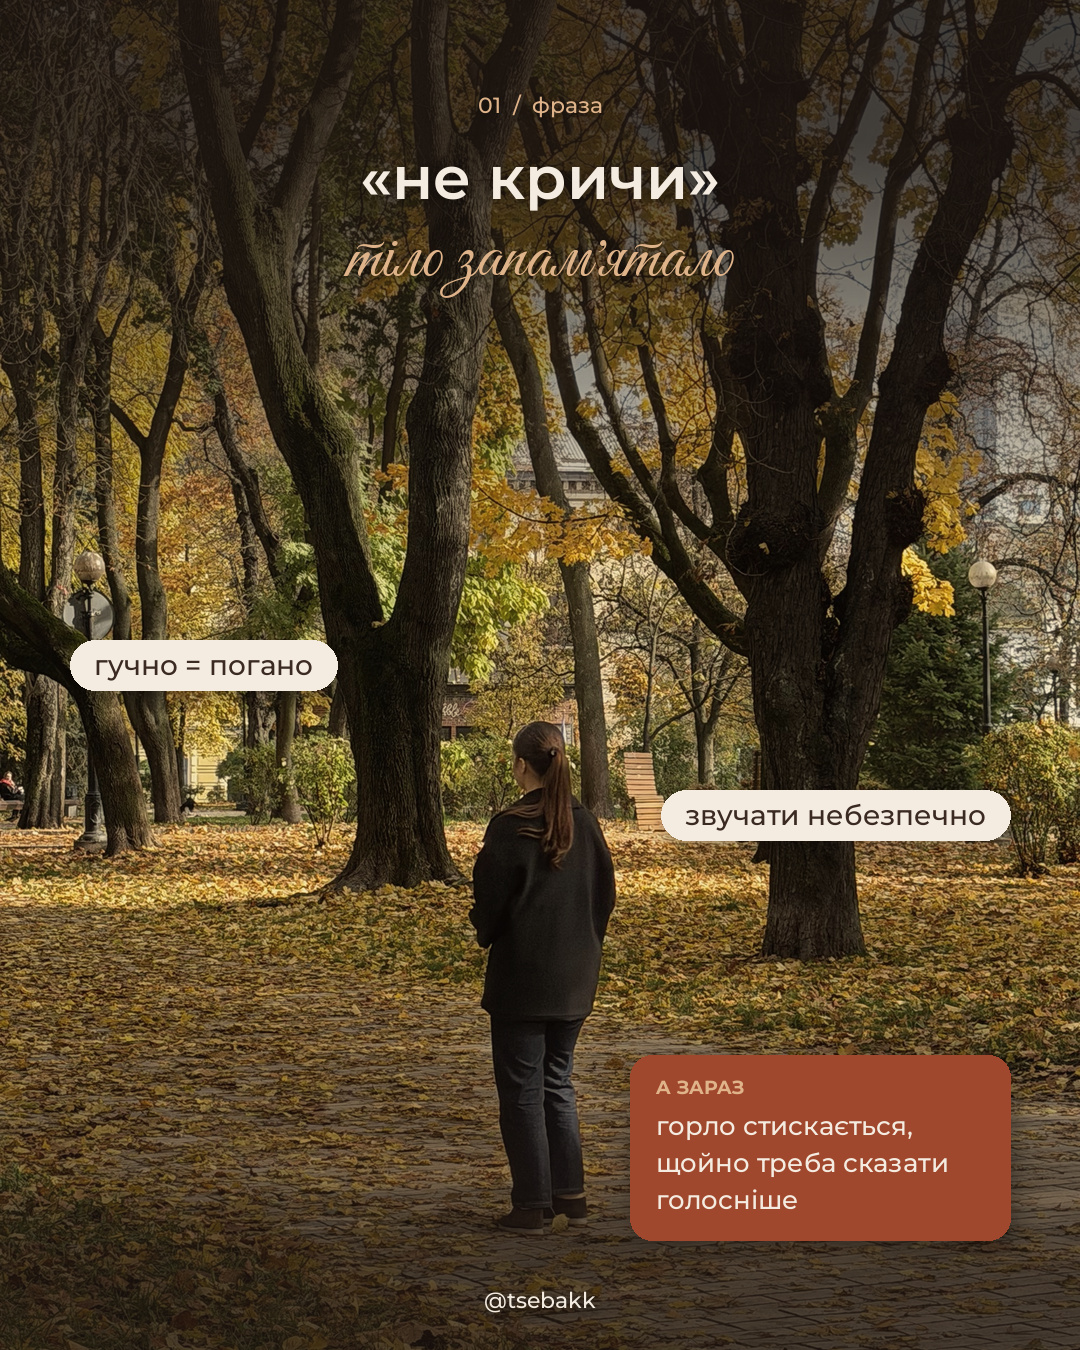
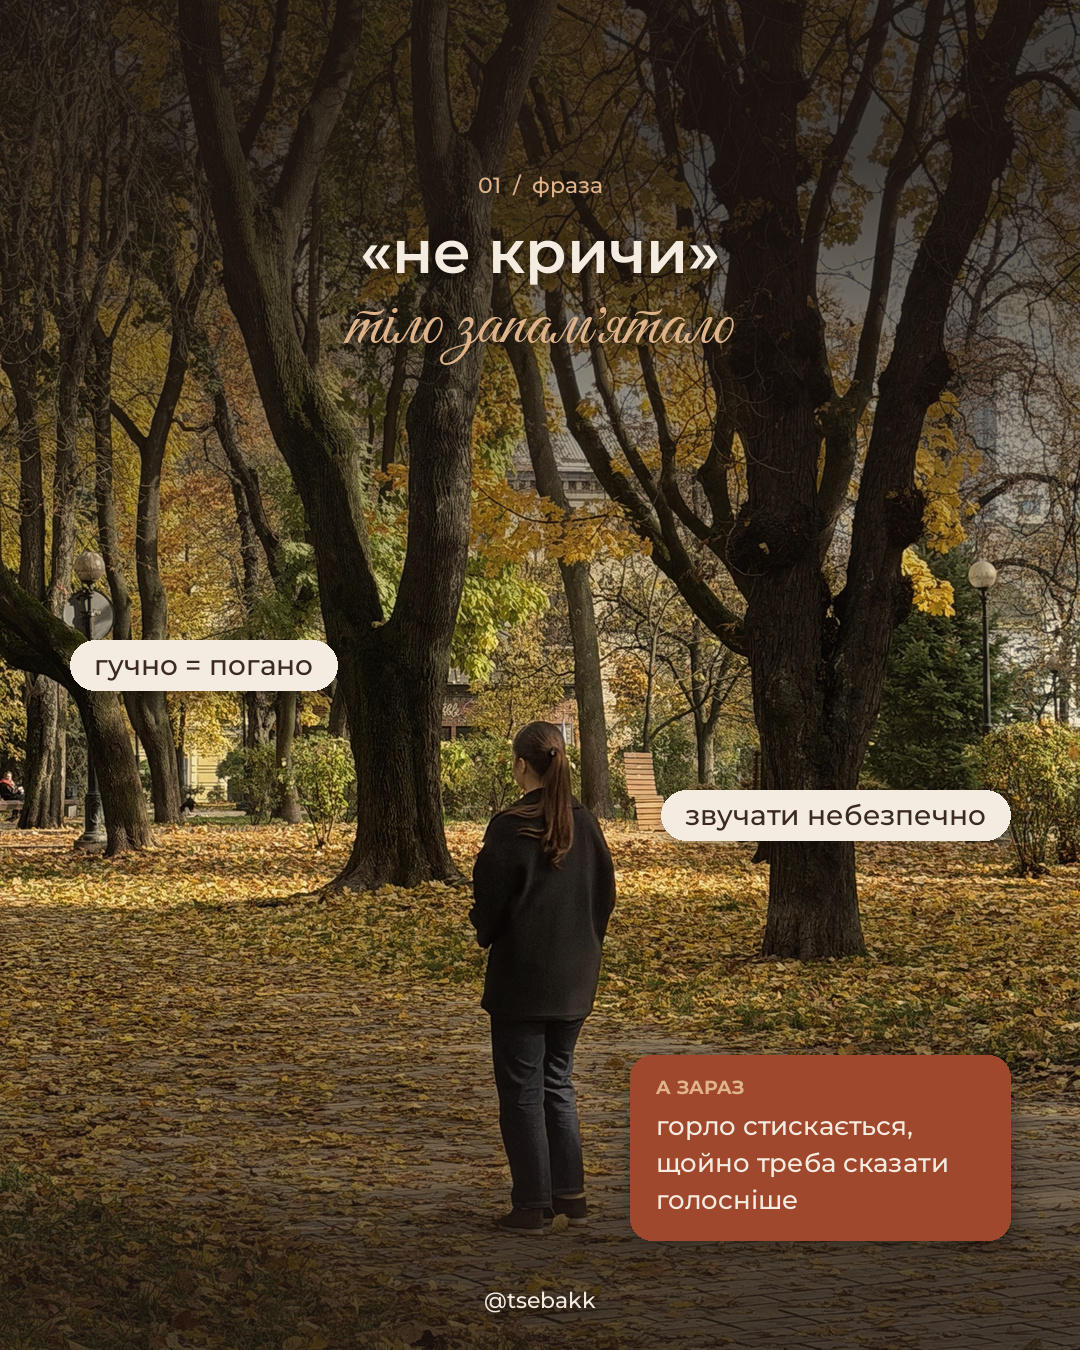
Стиль v2: щільніші рядки, текст на пунктах нижче, заклик без кодового слова
Claude-Session: https://claude.ai/code/session_014Frww6DmATMNYLbdYsHMaJ

diff --git a/carousel_kit.py b/carousel_kit.py
@@ -166,13 +166,13 @@ def handle(c):
     soft_text(c, (W / 2, H - 50), HANDLE, mont(22, "Medium"), MILK)
 
 
-def header(c, s, y=105):
+def header(c, s, y=185):
     # «01 / фраза» + заголовок + рукописний рядок; повертає низ текстової зони
     if s.get("number"):
         soft_text(c, (W / 2, y), f"{s['number']}  /  {s.get('label', '')}".strip(" /"), mont(22, "Medium"), CARAMEL_L)
-        y += 72
+        y += 66
     size = s.get("title_size", 60)
-    y = centered(c, y, s["title"], mont(size, "SemiBold"), MILK, int(size * 1.18))
+    y = centered(c, y, s["title"], mont(size, "SemiBold"), MILK, int(size * 1.06))
     if s.get("script"):
         ss = s.get("script_size", 70)
         y = centered(c, y + int(ss * 0.18), typo(s["script"]), script(ss), CARAMEL_L, int(ss * 1.05))
@@ -189,7 +189,7 @@ def s_cover(s, base):
     y = s.get("title_y", 890)
     for line in lines:
         soft_text(c, (W / 2, y), line, mont(s.get("title_size", 54), "SemiBold"), MILK)
-        y += 66
+        y += 58
     if s.get("script"):
         soft_text(c, (W / 2, y + 38), typo(s["script"]), script(s.get("script_size", 140)), CARAMEL_L)
         y += 135
@@ -202,7 +202,7 @@ def s_cover(s, base):
 def s_point(s, base):
     # Пункт: номер, фраза, рукописний рядок, пігулки навколо людини в кадрі, плашка внизу.
     c = background(s, base)
-    shade(c, 0, s.get("shade_top_h", 560), 200, up=True)
+    shade(c, 0, s.get("shade_top_h", 640), 200, up=True)
     shade(c, s.get("shade_bottom", 1000), H, 170)
     header(c, s)
     ys = {"l": 640, "r": 790}
@@ -226,7 +226,7 @@ def s_text(s, base):
     if s.get("kicker"):
         soft_text(c, (W / 2, y - 80), s["kicker"].upper(), mont(21, "Bold"), CARAMEL_L)
     size = s.get("title_size", 58)
-    y = centered(c, y, s["title"], mont(size, "SemiBold"), MILK, int(size * 1.2))
+    y = centered(c, y, s["title"], mont(size, "SemiBold"), MILK, int(size * 1.06))
     if s.get("script"):
         ss = s.get("script_size", 74)
         y = centered(c, y + 10, typo(s["script"]), script(ss), CARAMEL_L, int(ss * 1.05))
@@ -244,10 +244,10 @@ def s_text(s, base):
 def s_cta(s, base):
     # Заклик: фото, питання для коментарів, рукописний рядок, пояснення, кодове слово на пігулці.
     c = background(s, base)
-    shade(c, s.get("shade_top", 560), H, 245)
-    y = s.get("title_y", 820)
+    shade(c, s.get("shade_top", 760), H, 245)
+    y = s.get("title_y", 1060)
     size = s.get("title_size", 54)
-    y = centered(c, y, s["title"], mont(size, "SemiBold"), MILK, int(size * 1.18))
+    y = centered(c, y, s["title"], mont(size, "SemiBold"), MILK, int(size * 1.06))
     if s.get("script"):
         y = centered(c, y + 10, typo(s["script"]), script(66), CARAMEL_L, 70)
     if s.get("body"):

diff --git a/ІНСТРУКЦІЯ.md b/ІНСТРУКЦІЯ.md
@@ -42,7 +42,8 @@
 - Montserrat SemiBold — заголовки й фрази. **Невеликі, не кричущі**: фраза 60 px, обкладинка 54 px, пігулки 28 px, плашка 26 px. Таня не любить великого тексту — краще менше, ніж більше.
 - Great Vibes — рукописний акцент (одне слово чи коротка фраза карамеллю: «твій голос», «тіло запам'ятало»). Один рукописний рядок на слайд.
 - Montserrat Light — підзаголовки й пояснення; Medium — пігулки; Bold — дрібні мітки ВЕЛИКИМИ; Black — кодове слово.
-- Відстань між заголовком і рукописним рядком — невелика, вони читаються як одне ціле.
+- Міжрядкова відстань щільна (≈1,05 від розміру шрифту); заголовок і рукописний рядок стоять близько й читаються як одне ціле.
+- На слайдах-пунктах текстовий блок починається не впритул до верху, а трохи нижче (~185 px від краю).
 
 **Фото:**
 - **На весь слайд, без рамок, паспарту, нахилів і квадратиків-вставок.**
@@ -62,16 +63,16 @@
 - `cover` — обкладинка: моє фото на весь кадр, затемнення знизу, 1–2 рядки Montserrat + рукописний акцент карамеллю + тонкий підзаголовок («гортай і рахуй…»).
 - `point` — пункт: вгорі «01 / фраза», фраза в лапках, рукописний рядок («тіло запам'ятало»); навколо мене 1–2 молочні **пігулки** з короткими словами; внизу теракотова **плашка** з міткою («А ЗАРАЗ») і 2–3 рядками.
 - `text` — думка: затемнене фото (або шоколадний фон), заголовок + рукописний акцент + коротке пояснення або кроки вправи на пігулках.
-- `cta` — заклик: фото з обличчям, питання для коментарів, рукописний рядок, пояснення, кодове слово на пігулці.
+- `cta` — заклик: фото з обличчям, питання для коментарів + рукописний рядок («напиши номер у коментарях»).
 
 **Структура (типова):**
 1. **Обкладинка** — обіцяє конкретику: число + біль («5 фраз з дитинства, які забрали твій голос»).
 2. **Вступ** (`text`) — сильна думка + рукописний акцент + 1–2 рядки пояснення.
 3–7. **Пункти** (`point`) — мітки на вибір: «тіло запам'ятало / а зараз», «міф / насправді», «що відбувається / що робити».
 8. **Поворот / користь** (`text` з `steps`) — «ХОРОША НОВИНА» + міні-вправа на 3 короткі кроки.
-9. **Заклик** (`cta`) — «Яку фразу чула ти? Напиши номер» + кодове слово «ГОЛОС» у Direct.
+9. **Заклик** (`cta`) — «Яку фразу чула ти? Напиши номер у коментарях».
 
-Питання з номером потрібне для коментарів, кодове слово — для заявок. Не міняй їх без причини.
+Питання з номером потрібне для коментарів. **Кодове слово («ГОЛОС» у Direct) поки НЕ використовуємо** — вправа-лід-магніт ще не готова. Поверну, коли Таня скаже.
 
 ## 5. ЯК ПРАЦЮВАТИ
 1. **Спершу план тексту**: таблиця слайдів (текст кожного слайда + яке фото куди) і підпис до допису. Покажи мені й дочекайся «ок» або правок.
@@ -82,13 +83,12 @@
 6. Віддай мені всі слайди окремими файлами `01.jpg…` (щоб я зберегла їх у Фото на iPad), плюс підпис до допису окремим текстом.
 
 ## 6. ПІДПИС ДО ДОПИСУ
-- 4–6 коротких рядків: емоційний вхід → упізнавана ситуація з життя → питання з номером → кодове слово.
+- 4–6 коротких рядків: емоційний вхід → упізнавана ситуація з життя → питання з номером. (Кодове слово поки не додаємо.)
 - 1–2 емодзі максимум (👇). 3–5 хештегів у кінці, можна без них.
 - Приклад:
 > Ці фрази казали з любові. Щоб ми були чемними, тихими, зручними. А тіло запам'ятало: звучати небезпечно.
 > Тепер ти доросла, а горло досі стискається на нараді, на високій ноті, коли хочеться сказати «ні».
 > Яку з цих фраз чула ти? Напиши номер 👇
-> А якщо хочеш вправу на розтискання горла, напиши «ГОЛОС», я надішлю.
 
 ## 7. ІНШИЙ ФОТО-КОНТЕНТ У ТОМУ Ж СТИЛІ
 - **Обкладинка рілса** 1080×1920: як `cover`, але важливе (обличчя і заголовок) — у центральній зоні 1080×1350, бо в сітці профілю видно лише її.
@@ -106,7 +106,7 @@
 - `cover`: `title` — список рядків; `script` — рукописний акцент; `subtitle`; необов'язково `title_size` (54), `title_y` (890), `script_size` (140), `shade_top` (640).
 - `point`: `number` («01»), `label` («фраза»), `title`, `script`; `pills` — список `{"text", "side": "l"|"r", "y"}` (side — з якого боку, y — висота верхнього краю, 0…1350); `block` — `{"label", "text", "side": "l"|"r"}`; необов'язково `title_size` (60), `script_size` (70).
 - `text`: `title`, `script`, `body` або `steps` (список коротких кроків), `kicker` (дрібна мітка зверху), `darken` (0–255, наскільки затемнити фото, типово 150), без `photo` — шоколадний фон.
-- `cta`: `title`, `script`, `body`, `keyword`.
+- `cta`: `title`, `script`; необов'язково `body`, `keyword` (кодове слово — поки не використовуємо), `title_y` (1060).
 - Перенос рядка всередині тексту — `\n`. Щоб два слова не розривались (наприклад, «у машині»), став між ними нерозривний пробіл.
 
 Мінімальний приклад слайда-пункту:
